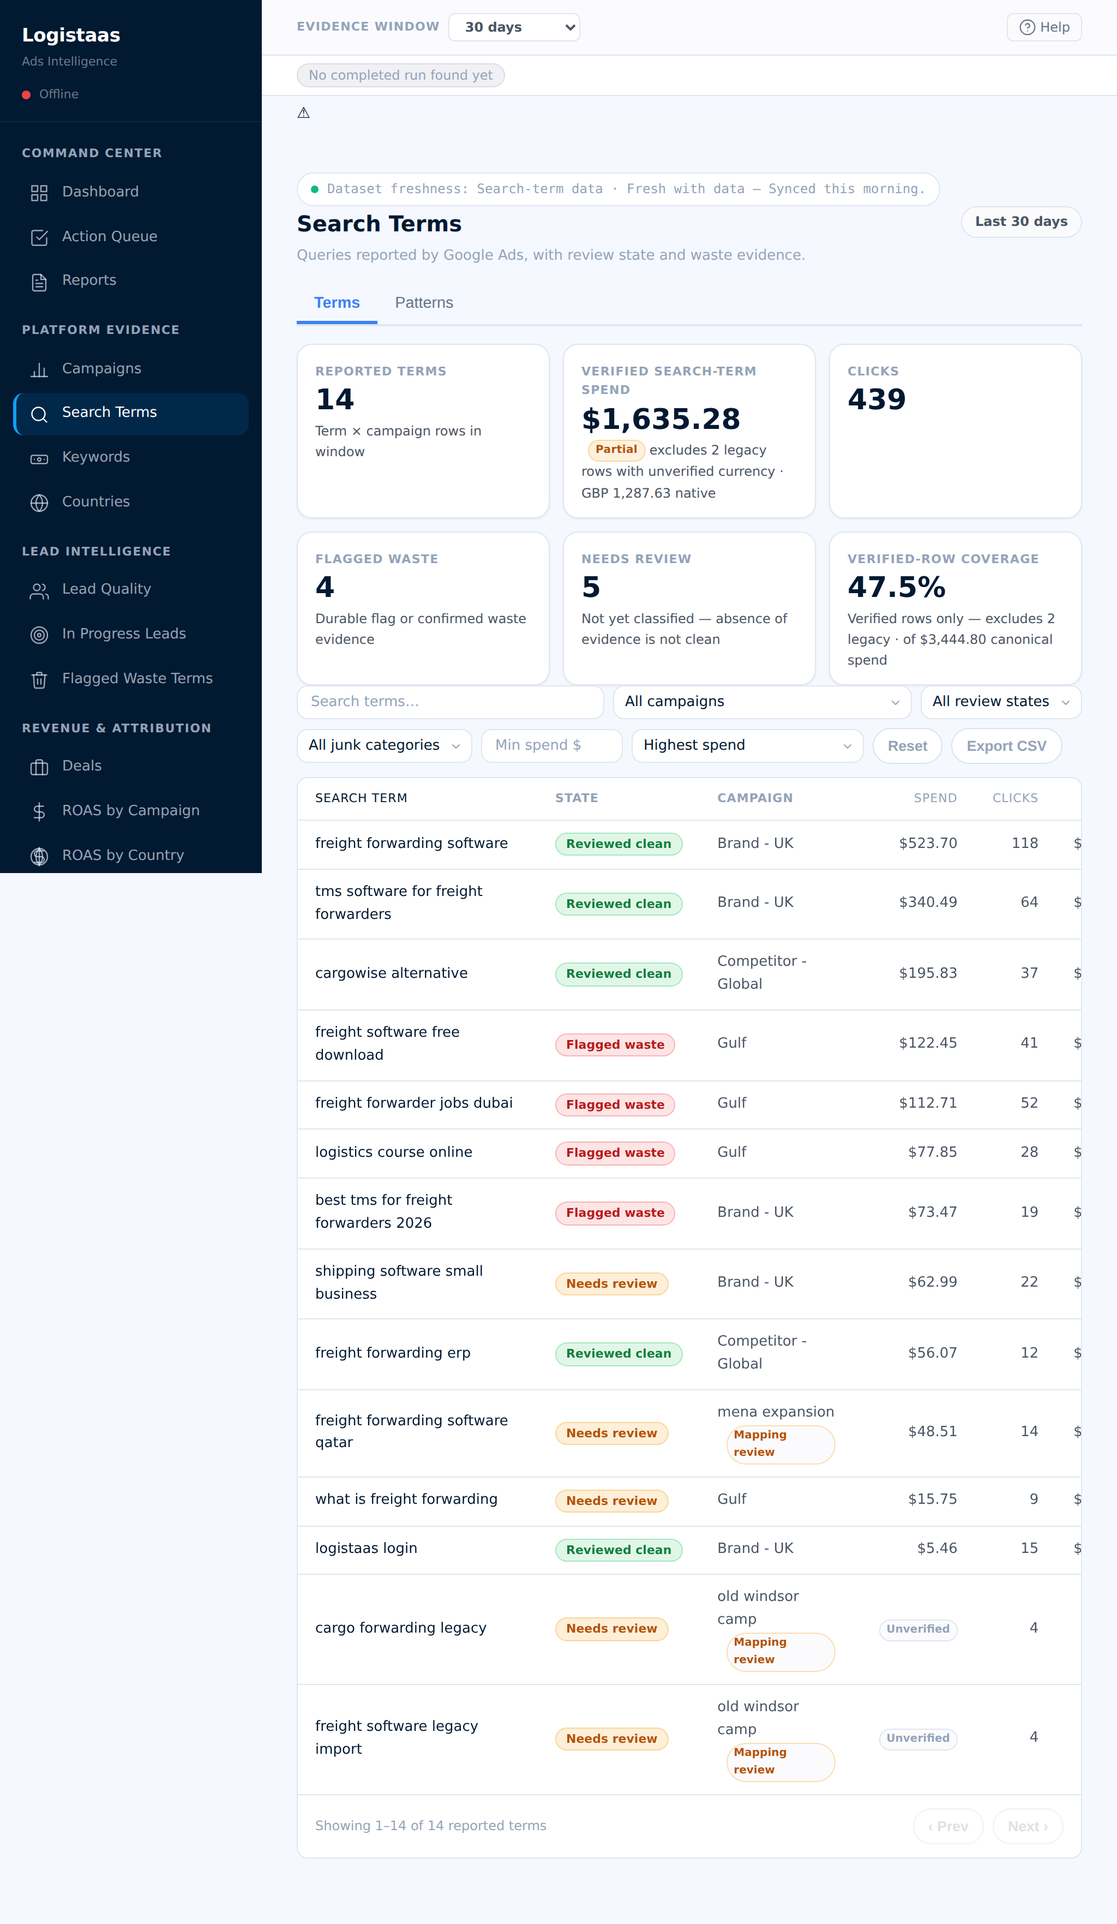
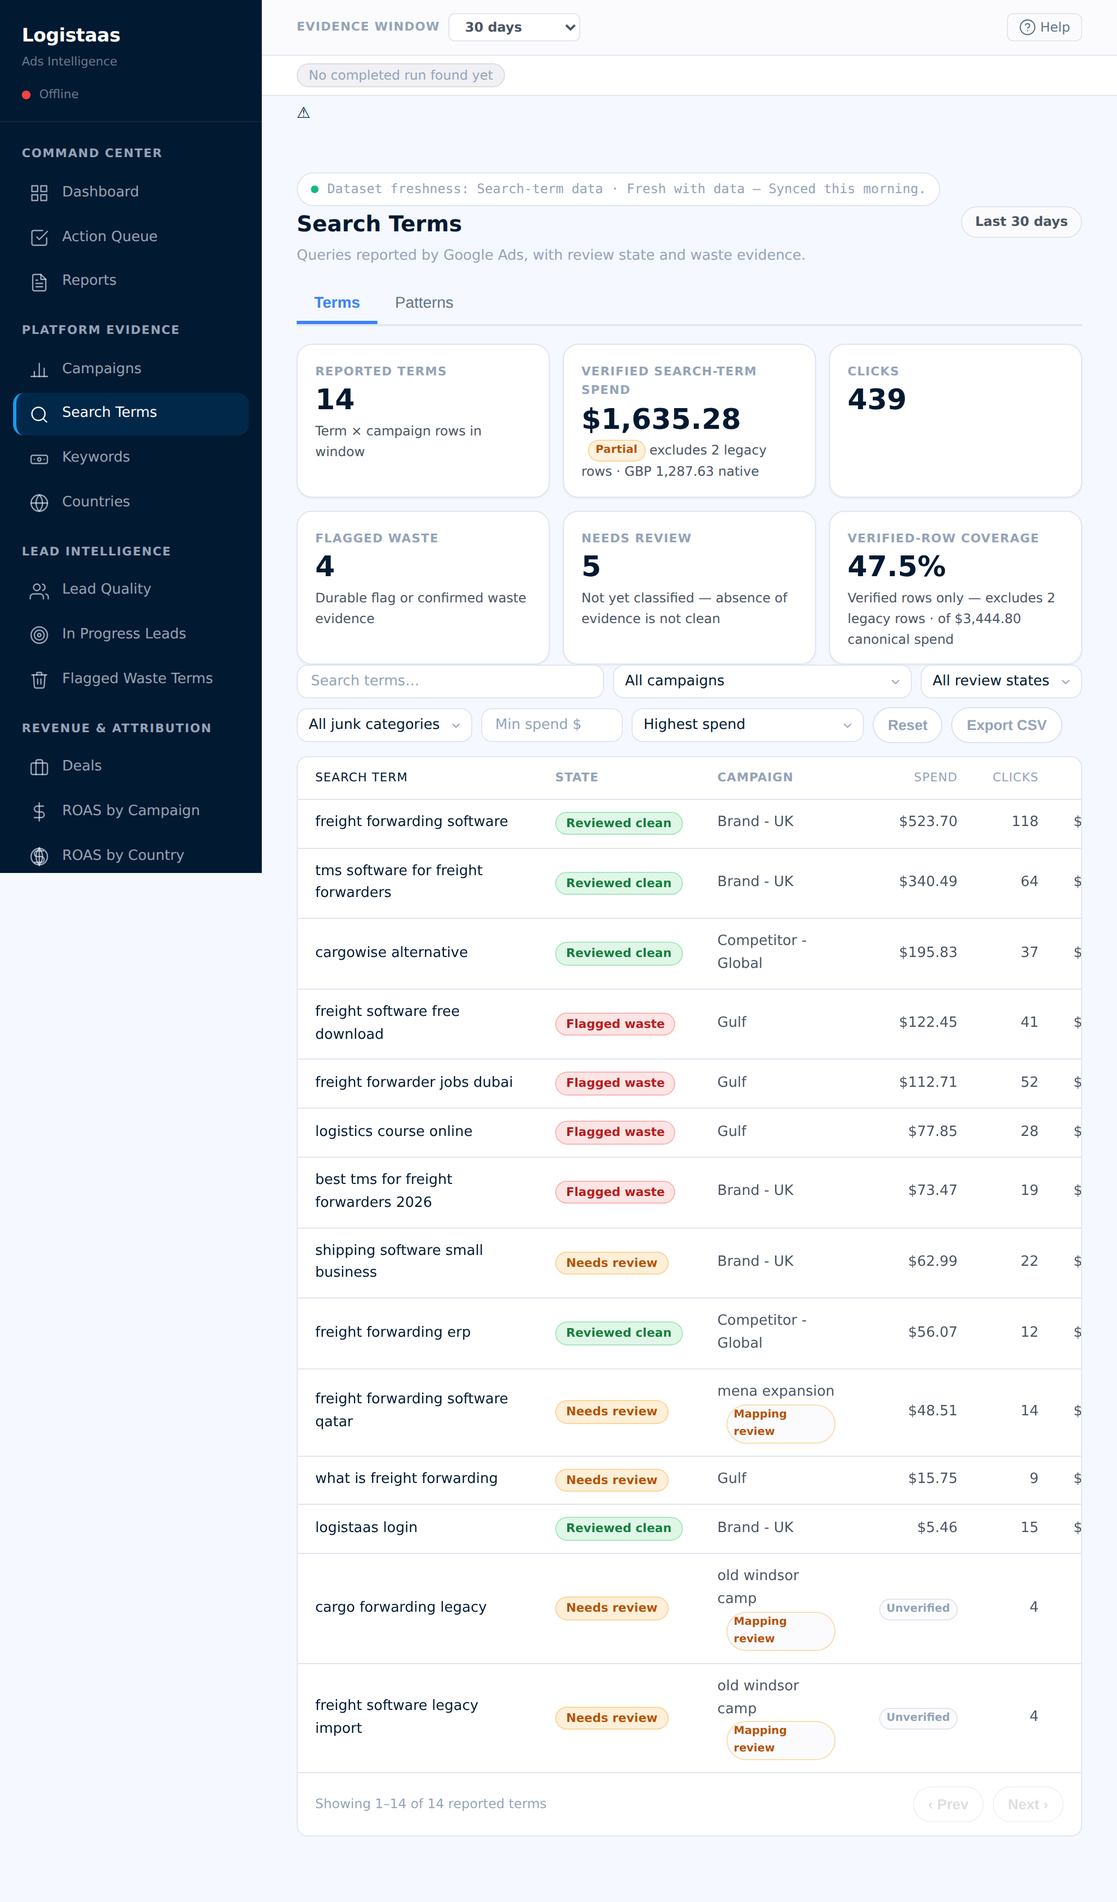
PR-ADS-145 — address Copilot review: accurate exclusion disclosure, pattern unavailable state, waste-bridge global identity safety
Four review findings on the completion PR:

1/2. Frontend disclosure conflated exclusion reasons. A Partial monetary status
   can arise from FX-incomplete rows as well as legacy unverified-currency rows,
   so "excludes N legacy rows" could read "excludes 0 legacy" when the real
   reason was FX-incompleteness. Add stExclusionPhrase() driving both the
   Verified Search-Term Spend subline and the Verified-row Coverage subline from
   the real counts, and expose excluded_fx_incomplete_units on the coverage block.

3. Pattern spend_status could be "partial" with a null represented subtotal when
   every contributing term was unverified. It is now "unavailable" in that case —
   a null verified subtotal is never presented as merely partial.

4. _attach_waste_evidence only checked local (same-term) uniqueness. It now also
   rejects globally ambiguous names (a normalized name shared by more than one
   canonical campaign id can never be attributed from the name alone, even when
   only one such campaign has the term in the window) and only enriches mapped
   units — an unmatched/not_google_ads unit has no confirmed identity to bind to.

Docs, currency-safe fixtures, screenshots and focused tests updated. Full suite
2093 passed; PG16 integration 12 passed; 2 pre-existing env-only failures remain.

Claude-Session: https://claude.ai/code/session_01UojSzaV6N9P6PoLVyXevpF

diff --git a/static/app.js b/static/app.js
@@ -9210,6 +9210,25 @@ function renderTermsTab() {
 // Compact Complete / Partial / Unavailable disclosure for the Verified
 // Search-Term Spend KPI (PR-ADS-145 §5/§7). No extra banner or pill row —
 // just a subline on the card.
+// Accurate exclusion phrase for a verified subtotal. A Partial status can come
+// from legacy rows with unverified currency AND/OR rows whose FX is incomplete
+// for a source_date — never conflate the two (a partial-by-FX window would
+// otherwise read "excludes 0 legacy rows"). PR-ADS-145 §7.
+function stExclusionPhrase(legacy, fxIncomplete) {
+  legacy = legacy || 0;
+  fxIncomplete = fxIncomplete || 0;
+  const total = legacy + fxIncomplete;
+  if (!total) return "excludes unverified rows";
+  if (legacy && fxIncomplete) {
+    return `excludes ${fmtCount(total)} unverified rows ` +
+      `(${fmtCount(legacy)} legacy · ${fmtCount(fxIncomplete)} FX-incomplete)`;
+  }
+  if (fxIncomplete) {
+    return `excludes ${fmtCount(fxIncomplete)} FX-incomplete row${fxIncomplete === 1 ? "" : "s"}`;
+  }
+  return `excludes ${fmtCount(legacy)} legacy row${legacy === 1 ? "" : "s"}`;
+}
+
 function stVerifiedSpendCard(kpis) {
   const mon = kpis.monetary || {};
   const status = kpis.monetary_status || mon.monetary_completeness_status || "unavailable";
@@ -9224,12 +9243,11 @@ function stVerifiedSpendCard(kpis) {
   // The Complete/Partial badge lives in the subline (never inline with the big
   // value, which would clip) — PR-ADS-145 §7 compact disclosure.
   const badge = status === "partial"
-    ? `<span class="st-mon-badge st-mon-badge--partial" title="Verified subtotal — some legacy rows have unverified currency">Partial</span>`
+    ? `<span class="st-mon-badge st-mon-badge--partial" title="Verified subtotal — excludes rows with unverified currency or incomplete FX">Partial</span>`
     : `<span class="st-mon-badge st-mon-badge--complete" title="All rows verified and FX-complete">Complete</span>`;
   let sub;
   if (status === "partial") {
-    const excluded = mon.unverified_currency_units || 0;
-    sub = `${badge} excludes ${fmtCount(excluded)} legacy row${excluded === 1 ? "" : "s"} with unverified currency` +
+    sub = `${badge} ${stExclusionPhrase(mon.unverified_currency_units, mon.fx_incomplete_units)}` +
       (nativeSub ? ` · ${nativeSub}` : "");
   } else {
     sub = `${badge} ${nativeSub ? `${nativeSub} · FX-converted USD` : "FX-converted USD"}`;
@@ -9258,7 +9276,7 @@ function renderTermsKPIs(kpis) {
       verifiedOnly ? "Verified-row Coverage" : "Reporting Coverage",
       `${Number(coverage.coverage_pct).toFixed(1)}%`,
       (verifiedOnly
-        ? `Verified rows only — excludes ${fmtCount(coverage.excluded_unverified_units || 0)} legacy · of `
+        ? `Verified rows only — ${stExclusionPhrase(coverage.excluded_unverified_units, coverage.excluded_fx_incomplete_units)} · of `
         : "Search-term reporting coverage of ") +
       `${stMoney(coverage.canonical_spend_usd)} canonical spend`));
   }

diff --git a/services/search_term_evidence_service.py b/services/search_term_evidence_service.py
@@ -603,17 +603,43 @@ def _unit_safe_labels(unit: dict, aliases_by_id: dict) -> set:
     return {normalize_campaign_name(x) for x in labels if x}
 
 
+def _globally_ambiguous_norms(norm_to_ids: dict, aliases_by_id: dict) -> set:
+    """Normalized campaign names/aliases that resolve to MORE THAN ONE canonical
+    campaign identity. ``waste_terms`` rows carry only a campaign_name (no
+    campaign_id), so such a name can never be attributed to a single campaign —
+    evidence bearing it must never be bridged (PR-ADS-145 §4 identity safety)."""
+    norm_ids: dict = {}
+    for norm, ids in (norm_to_ids or {}).items():
+        if norm:
+            norm_ids.setdefault(norm, set()).update(str(i) for i in ids)
+    for cid, labels in (aliases_by_id or {}).items():
+        for lbl in labels:
+            n = normalize_campaign_name(lbl)
+            if n:
+                norm_ids.setdefault(n, set()).add(str(cid))
+    return {n for n, ids in norm_ids.items() if len(ids) > 1}
+
+
 def _attach_waste_evidence(units: list, start, end, identity_by_label,
-                           aliases_by_id) -> None:
+                           aliases_by_id, norm_to_ids) -> None:
     """Attach safely campaign-scoped ``waste_terms`` evidence to units so a term
     the weekly pipeline already confirmed shows as Flagged waste rather than
     Needs review (PR-ADS-145 §4). Mutates units in place.
 
-    Safety (no fuzzy, no cross-campaign borrowing): evidence is attached only
-    when the (term, campaign_name) resolves to a label that UNIQUELY identifies
-    this unit among all units for the same term — a display name shared by two
-    campaign identities for the term is ambiguous and attaches to NEITHER (they
-    stay Needs review). ``not_google_ads`` units are never enriched.
+    Safety (no fuzzy, no cross-campaign borrowing). ``waste_terms`` rows key on
+    (search_term, campaign_name) — they carry NO campaign_id — so evidence is
+    bridged onto a unit only when its campaign name/alias identifies exactly one
+    campaign, both locally and globally:
+      * only ``mapped`` units are enriched — an ``unmatched`` (Mapping review) or
+        ``not_google_ads`` unit has no confirmed Google Ads identity to bind to;
+      * the label must UNIQUELY identify this unit among all units for the same
+        term (a display name shared by two units for the term is ambiguous and
+        attaches to NEITHER); and
+      * the label must not be GLOBALLY ambiguous — a normalized name shared by
+        more than one canonical campaign id can never be attributed to one
+        campaign from the name alone, even if only one such campaign happens to
+        have the term in the selected window.
+    Ambiguous either way ⇒ the unit stays Needs review.
     """
     import db.search_term_repository as st_repo  # noqa: PLC0415
 
@@ -630,22 +656,30 @@ def _attach_waste_evidence(units: list, start, end, identity_by_label,
         if norm:
             ev_by_key[(r.get("search_term"), norm)] = r
 
+    ambiguous_norms = _globally_ambiguous_norms(norm_to_ids, aliases_by_id)
+
     # Group units by term so we can detect same-name ambiguity within a term.
+    # ``_unit_safe_labels`` for EVERY unit (mapped + unmatched) feeds the local
+    # ambiguity denominator, but only mapped units are eligible for attachment.
     by_term: dict = {}
     for u in units:
         by_term.setdefault(u["search_term"], []).append(u)
 
     for term, term_units in by_term.items():
         for u in term_units:
+            if u.get("mapping_status") != "mapped":
+                continue
             safe_labels = _unit_safe_labels(u, aliases_by_id)
             if not safe_labels:
                 continue
             others = [o for o in term_units if o is not u]
-            # A label shared with another unit for this term is ambiguous.
+            # A label shared with another unit for this term, OR globally shared
+            # by more than one canonical campaign id, is ambiguous.
             unique_labels = {
                 lbl for lbl in safe_labels
-                if not any(lbl in _unit_safe_labels(o, aliases_by_id)
-                           for o in others)
+                if lbl not in ambiguous_norms
+                and not any(lbl in _unit_safe_labels(o, aliases_by_id)
+                            for o in others)
             }
             if not unique_labels:
                 continue
@@ -744,7 +778,8 @@ def _build_population(start, end) -> dict:
     # Attach safely campaign-scoped waste_terms classification evidence so a
     # newly imported term that the weekly pipeline already confirmed shows as
     # Flagged waste rather than Needs review (PR-ADS-145 §4).
-    _attach_waste_evidence(unit_list, start, end, identity_by_label, aliases_by_id)
+    _attach_waste_evidence(unit_list, start, end, identity_by_label,
+                           aliases_by_id, norm_to_ids)
 
     return {
         "available": True,
@@ -944,6 +979,7 @@ def _coverage_block(mon: dict, canonical: dict) -> dict:
             "verified_search_term_spend_usd": _round2(verified_usd),
             "coverage_pct": None,
             "excluded_unverified_units": mon.get("unverified_currency_units"),
+            "excluded_fx_incomplete_units": mon.get("fx_incomplete_units"),
             "note": ("Coverage requires at least one verified FX-complete "
                      "search-term row and an FX-complete canonical campaign USD "
                      "total for the same window."),
@@ -952,8 +988,12 @@ def _coverage_block(mon: dict, canonical: dict) -> dict:
     note = ("Completeness diagnostic only — verified search-term spend is not "
             "expected to reconcile exactly with canonical spend.")
     if scope == "verified_only":
+        # The verified numerator excludes BOTH legacy (unverified-currency) rows
+        # and FX-incomplete rows — disclose each so "excludes 0 legacy" can never
+        # misrepresent an FX-incompleteness exclusion.
         note = ("Verified-row reporting coverage — EXCLUDES "
-                f"{mon.get('unverified_currency_units')} unverified legacy row(s). "
+                f"{mon.get('unverified_currency_units')} unverified legacy row(s) "
+                f"and {mon.get('fx_incomplete_units')} FX-incomplete row(s). "
                 + note)
     return {
         "status": "ok",
@@ -962,6 +1002,7 @@ def _coverage_block(mon: dict, canonical: dict) -> dict:
         "verified_search_term_spend_usd": _round2(verified_usd),
         "coverage_pct": round(float(verified_usd) / float(canonical_usd) * 100.0, 2),
         "excluded_unverified_units": mon.get("unverified_currency_units"),
+        "excluded_fx_incomplete_units": mon.get("fx_incomplete_units"),
         "note": note,
     }
 
@@ -1685,6 +1726,15 @@ def build_search_pattern_evidence(window: str, *, n: int = 1,
     # Whether the surviving pattern population has any unverified underlying
     # spend → the represented-spend KPI is a verified subtotal, not complete.
     kpi_partial = any(t.get("has_unverified_spend") for t in contributing)
+    # When there is NO verified FX-complete spend at all (every contributing
+    # term is unverified, so unique_spend stayed None), the represented-spend
+    # KPI is Unavailable — never a null presented as merely "partial".
+    if unique_spend is None:
+        spend_status = MON_UNAVAILABLE
+    elif kpi_partial:
+        spend_status = MON_PARTIAL
+    else:
+        spend_status = MON_COMPLETE
     kpis = {
         "patterns_found": len(rows),
         "terms_analysed": len(contributing),
@@ -1693,7 +1743,7 @@ def build_search_pattern_evidence(window: str, *, n: int = 1,
                                        if p["needs_review_terms"] > 0),
         # Verified FX-complete unique-underlying-term spend only.
         "reported_spend_represented_usd": _round2(unique_spend),
-        "spend_status": (MON_PARTIAL if kpi_partial else MON_COMPLETE),
+        "spend_status": spend_status,
     }
 
     returned = ordered[:limit]

diff --git a/tests/test_pr_ads_145_search_terms_completion.py b/tests/test_pr_ads_145_search_terms_completion.py
@@ -164,8 +164,17 @@ def test_partial_kpi_discloses_excluded_count(monkeypatch):
     _patch(monkeypatch, rows)
     out = _build()
     assert out["kpis"]["monetary"]["unverified_currency_units"] == 2
-    # The frontend renders "Partial · excludes N legacy rows".
-    assert "excludes ${fmtCount(excluded)} legacy row" in ST_MODULE
+    # The frontend renders an accurate exclusion phrase that distinguishes legacy
+    # (unverified-currency) rows from FX-incomplete rows — never "excludes 0
+    # legacy rows" when the partiality is actually FX-incompleteness.
+    assert "function stExclusionPhrase" in ST_MODULE
+    assert "stExclusionPhrase(mon.unverified_currency_units, mon.fx_incomplete_units)" in ST_MODULE
+    assert "FX-incomplete" in ST_MODULE
+    # The coverage subline also discloses both exclusion reasons via the helper.
+    assert "stExclusionPhrase(coverage.excluded_unverified_units, coverage.excluded_fx_incomplete_units)" in ST_MODULE
+    # Coverage metadata now carries the FX-incomplete exclusion count too.
+    cov = out["kpis"]["coverage"]
+    assert "excluded_fx_incomplete_units" in cov
 
 
 def test_complete_population_returns_complete(monkeypatch):
@@ -315,6 +324,36 @@ def test_same_name_ambiguous_campaigns_cannot_borrow_waste(monkeypatch):
         assert r["crm_junk_confirmed"] is None         # evidence not borrowed
 
 
+def test_globally_ambiguous_name_cannot_borrow_waste_even_when_alone_in_window(monkeypatch):
+    # A display name shared by TWO canonical campaign ids is globally ambiguous.
+    # waste_terms carries only the name, so even when only ONE of those campaigns
+    # has the term in the selected window it must NOT borrow the evidence — the
+    # name cannot be attributed to a single campaign id.
+    rows = [_g("freight software", "gulf", "2", 20.0, unrev=True)]
+    canonical = {"available": True, "customer_id": "c1", "total_spend_usd": None,
+                 "fx_complete": False, "rows": [
+                     {"campaign_id": "2", "campaign_name": "gulf"},
+                     {"campaign_id": "3", "campaign_name": "gulf"}]}
+    _patch(monkeypatch, rows, waste=_waste("freight software", "gulf"),
+           canonical=canonical)
+    out = _build()
+    r = _row(out, "freight software")
+    assert r["state"] == "needs_review"        # not flagged from an ambiguous name
+    assert r["crm_junk_confirmed"] is None      # evidence not borrowed
+
+
+def test_unmatched_unit_never_borrows_waste(monkeypatch):
+    # An unmatched (Mapping review) unit has no confirmed Google Ads identity, so
+    # even an exact (term, campaign_name) waste_terms match must not flag it.
+    rows = [_g("freight jobs", "mystery co", None, 20.0, unrev=True)]
+    _patch(monkeypatch, rows, waste=_waste("freight jobs", "mystery co"))
+    out = _build()
+    r = _row(out, "freight jobs")
+    assert r["mapping_status"] == "unmatched"
+    assert r["state"] == "needs_review"
+    assert r["crm_junk_confirmed"] is None
+
+
 def test_durable_flag_beats_everything(monkeypatch):
     rows = [_g("junk term", "gulf", "2", 20.0, flagged=True)]
     _patch(monkeypatch, rows, waste=_waste("junk term", "gulf"))
@@ -361,6 +400,20 @@ def test_pattern_spend_partial_when_underlying_unverified(monkeypatch):
     assert freight["spend_partial"] is True         # one underlying term unverified
     assert freight["reported_spend_usd"] == 125.0   # verified subtotal only
     assert out["kpis"]["spend_status"] == "partial"
+
+
+def test_pattern_spend_unavailable_when_all_underlying_unverified(monkeypatch):
+    # Every contributing term is legacy/unverified → there is NO verified
+    # FX-complete spend at all. The represented-spend KPI must be Unavailable
+    # (null + "unavailable"), never a null presented as merely "partial".
+    from services.search_term_evidence_service import build_search_pattern_evidence
+    rows = [_g("freight legacy one", "old", None, 5.0, ccy=None, src=None),
+            _g("freight legacy two", "old", None, 7.0, ccy=None, src=None)]
+    _patch(monkeypatch, rows)
+    out = build_search_pattern_evidence(
+        "30d", n=1, now=datetime(2026, 7, 3, 9, 0, tzinfo=timezone.utc))
+    assert out["kpis"]["reported_spend_represented_usd"] is None
+    assert out["kpis"]["spend_status"] == "unavailable"
 
 
 # ════════════════ 3. Regression / read-only ════════════════

diff --git a/docs/API_CONTRACT.md b/docs/API_CONTRACT.md
@@ -1546,7 +1546,8 @@ server-side filtering / sorting / pagination and complete-population KPIs.
       "scope": "complete|verified_only|unavailable",
       "canonical_spend_usd": 1890.0,  // canonical campaign spend, FX-safe USD
       "verified_search_term_spend_usd": 1234.56,   // FX-converted verified numerator
-      "excluded_unverified_units": 78,
+      "excluded_unverified_units": 78,       // legacy rows with unprovable currency
+      "excluded_fx_incomplete_units": 3,     // proven currency but a source_date lacked an FX rate
       "coverage_pct": 65.32,          // null when contracts are not comparable
       "note": "…"
     }
@@ -1653,11 +1654,16 @@ server-side filtering / sorting / pagination and complete-population KPIs.
   - `complete` — every window row is verified GBP lineage AND FX-complete →
     `verified_spend_usd` (with `verified_spend_native`) is the full reported
     spend, and Reporting Coverage is available.
-  - `partial` — at least one verified FX-complete row plus one or more
-    legacy/unverified rows → `verified_spend_usd` is a VERIFIED SUBTOTAL
-    (labelled "Partial · excludes N legacy rows"), never the complete reported
-    spend. Coverage becomes `scope: "verified_only"` (verified-row reporting
-    coverage; unverified rows excluded).
+  - `partial` — at least one verified FX-complete row plus one or more rows the
+    subtotal cannot include: legacy rows with **unprovable currency**
+    (`unverified_currency_units`) and/or rows with proven currency but an
+    **FX-incomplete** source date (`fx_incomplete_units`). `verified_spend_usd`
+    is then a VERIFIED SUBTOTAL, never the complete reported spend, and the UI
+    discloses the actual exclusion reason ("excludes N unverified rows (L legacy
+    · F FX-incomplete)") — it never mislabels an FX-incompleteness exclusion as
+    "0 legacy rows". Coverage becomes `scope: "verified_only"` (verified-row
+    reporting coverage) and reports BOTH `excluded_unverified_units` and
+    `excluded_fx_incomplete_units`.
     `monetary` fields: `total_units`, `verified_currency_units`,
     `unverified_currency_units`, `fx_complete_units`, `fx_incomplete_units`,
     `verified_native_spend`, `verified_usd_spend`, `native_currency`,
@@ -1759,9 +1765,10 @@ currency contract and classification states.
 | `limit` | `100` | 1–500 pattern rows; `pagination.total_count`/`has_more` disclose truncation. |
 
 Response: `kpis {patterns_found, terms_analysed, patterns_with_flagged,
-patterns_needing_review, reported_spend_represented_usd}`, `rows [{pattern, n,
-signal (flagged_present|needs_review|mixed|reviewed_clean_only), terms,
-flagged_terms, clean_terms, needs_review_terms, reported_spend_usd, clicks,
+patterns_needing_review, reported_spend_represented_usd, spend_status}`, `rows
+[{pattern, n, signal (flagged_present|needs_review|mixed|reviewed_clean_only),
+terms, flagged_terms, clean_terms, needs_review_terms, reported_spend_usd,
+spend_partial, verified_spend_terms, unverified_spend_terms, clicks,
 conversions, campaigns_count}]`, plus the same `audit` block extended with
 `patterns_derivation` and `pattern_kpi_spend_semantics:
 "unique_underlying_terms"`.
@@ -1771,6 +1778,15 @@ patterns, so pattern-row spend is NEVER additive and is never summed into an
 account total. KPI spend is computed once per unique underlying term. The
 machine-verifiable `overlap` block discloses `unique_terms_analysed`,
 `total_pattern_memberships`, `overlapping_term_count` and `spend_semantics`.
+
+**Pattern spend completeness (PR-ADS-145).** `reported_spend_represented_usd`
+aggregates only verified FX-complete underlying-term spend. `spend_status` is
+`complete` when every contributing term is verified, `partial` when a verified
+subtotal exists alongside unverified terms, and `unavailable` (with
+`reported_spend_represented_usd: null`) when NO contributing term is verified —
+a null verified subtotal is never presented as merely "partial". Per row,
+`spend_partial` flags a verified subtotal and `verified_spend_terms` /
+`unverified_spend_terms` disclose the split.
 
 ---
 
